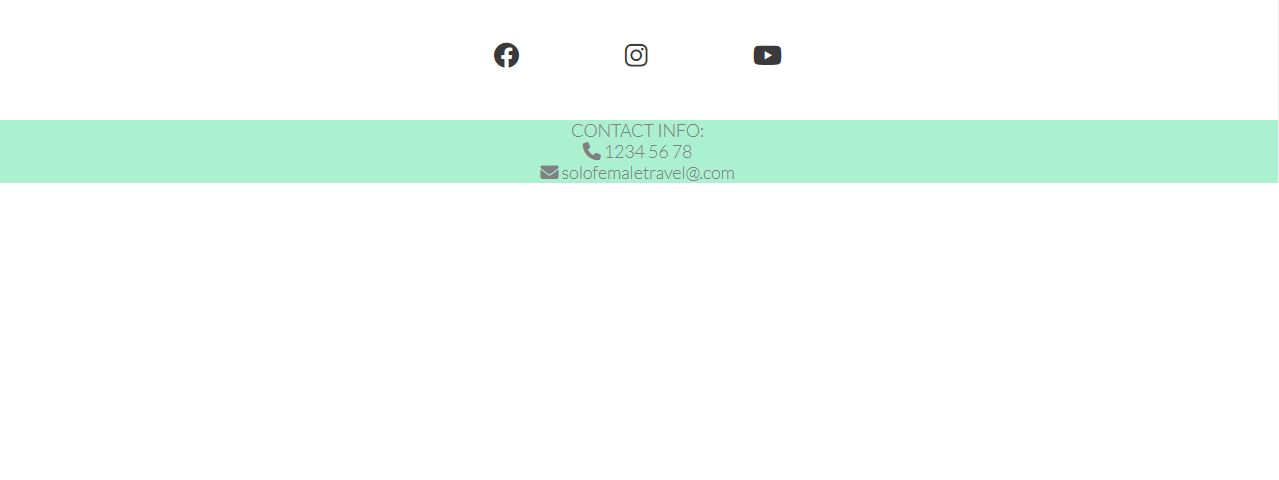
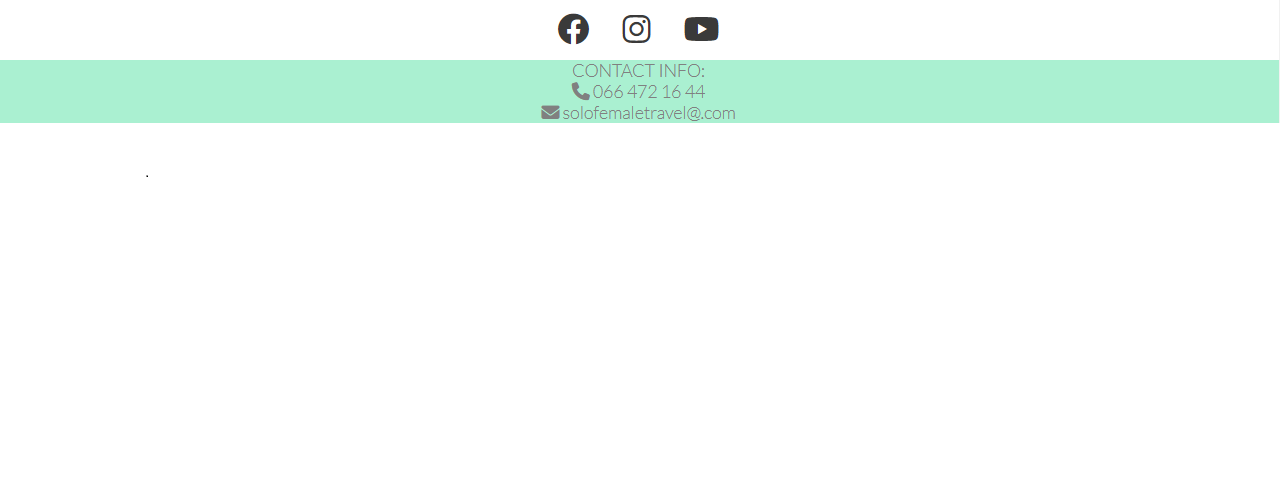
add change to media queries and readme file

Changed region(s): [[0.0, 0.0312, 1.0, 0.4062]]

diff --git a/index.html b/index.html
@@ -109,19 +109,19 @@
         <div id="left-about">
             <h3>
                 <!-- link to the page that gives info about the trip -->
-                <a href="#">liberal and provocative Amsterdam in friendly and safe company </a>
+                <a href="#" target="_blank" rel="noopener">liberal and provocative Amsterdam in friendly and safe company </a>
             </h3>
         </div>
         <div id="right-about">
             <h3>
                 <!-- link to the page that gives info about the trip -->
-                <a href="#"> winter Fairy-tale in Iceland </a>
+                <a href="#" target="_blank" rel="noopener"> winter Fairy-tale in Iceland </a>
             </h3>
         </div>
         <div id="center-about">
             <h3>
                 <!-- link to the page that gives info about the trip -->
-                <a href="#"> Recharge and relax in Bali </a>
+                <a href="#" target="_blank" rel="noopener"> Recharge and relax in Bali </a>
             </h3>
         </div>
     </section>
@@ -155,7 +155,7 @@
         </ul>
 
         <ul class="contact"> contact info:
-            <li><i class="fa-solid fa-phone"></i> 1234 56 78</li>
+            <li><i class="fa-solid fa-phone"></i> 066 472 16 44</li>
             <li><i class="fa-solid fa-envelope"></i> solofemaletravel@.com</li>
         </ul>
     

diff --git a/assets/css/style.css b/assets/css/style.css
@@ -221,11 +221,7 @@ form {
 }
 
 /* footer */
-footer {
-    height: 50px;
-}
-
-#social-links {
+footer #social-links {
     text-align: center;
 }
 
@@ -234,9 +230,9 @@ footer {
 }
 
 #social-links i {
-    font-size: 160%;
-    margin: 1%;
-    padding: 3%;
+    font-size: 200%;
+    margin: 5px;
+    padding: 10px;
     color: #3a3a3a;
 }
 
@@ -275,15 +271,17 @@ footer {
         text-transform: uppercase;
     }
 }
+
 /* for sreens size from 950px and down */
-@media screen and (max-width: 950px){
+@media screen and (max-width: 950px) {
     #menu li {
         clear: right;
         float: right;
         padding: 5px;
         text-transform: uppercase;
+    }
 }
-}
+
 /* for sreens size from 800px and down */
 @media screen and (max-width: 800px) {
     #lets-connect {
@@ -312,4 +310,7 @@ footer {
         font-size: 100%;
     }
 
+    #lets-connect p {
+        font-size: 80%;
+    }
 }

diff --git a/README.md b/README.md
@@ -9,11 +9,13 @@ Users of this website will be able to find all the information they need about s
   * the navigation is fully responsive and in color that contrasts with background.
   * the navigation links have icons which make it easier for user to choose the section they want to go to. 
   <img src="./assets/css/images/navigation img.jpeg">
+
 ---
 * ### The Hero image
   * The Hero image includes a picture with a text overlay to motivate the User.
   * This section introduces the user to Female Solo Travel with an eye catching image and a motto. 
   <img src="./assets/css/images/main-theme.png">
+
   ---
 * ### Main theme
   * The main theme section consists of paragraphs which describe the concept of Female Solo Travel. 
@@ -25,15 +27,18 @@ Users of this website will be able to find all the information they need about s
   * Community Trips section gives examples of trips organised and provided by community.
    * This section has images of provided trips and links that allow User to find out more information about chosen trip.
    <img src="./assets/css/images/community-trips.png">
+
    ---
 * ### Let's Connect
    * Let's Connect section has a form to collect details from women so they can choose travel partner from The Community.
    * the form collects User's name, email address, destination and dates of future trip.
    * Let's connect section gives Solo Female travellers safe way to find a travel partner.
    <img src="./assets/css/images/lets-connect.png">
+
    ---
 * ### Contacts section
    * The Contacts section contains icons which are links to Social media of Female Solo Travel Community.
    * This section provides telephone number and email address to get in touch. 
    <img src="./assets/css/images/footer.png">
+
   ---
